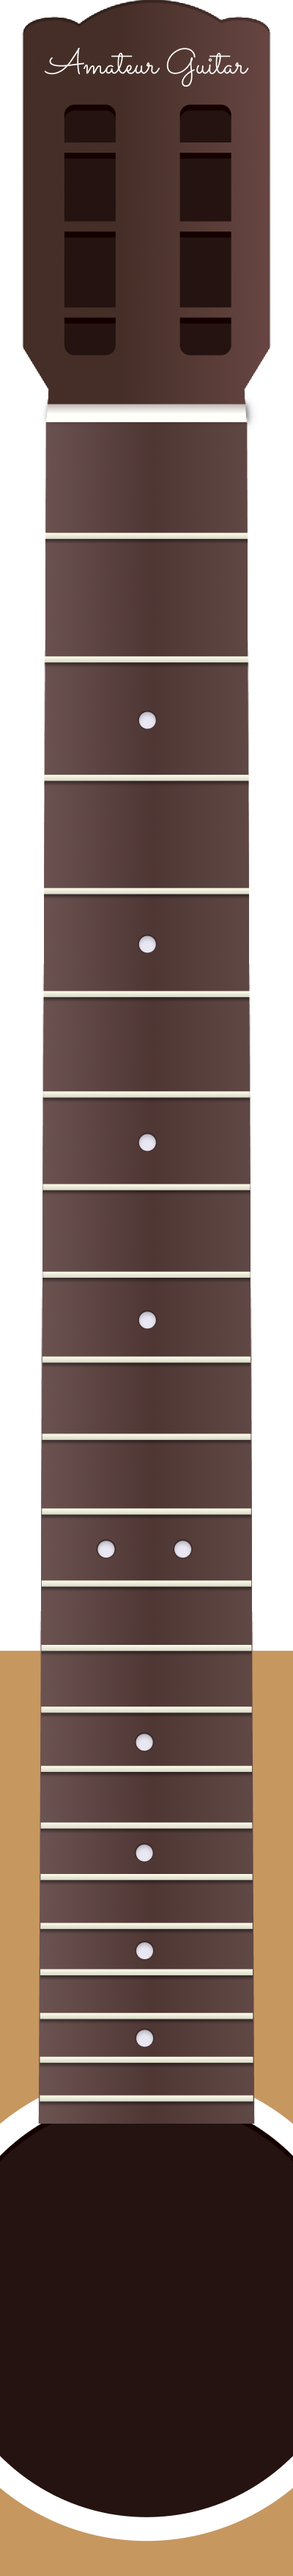
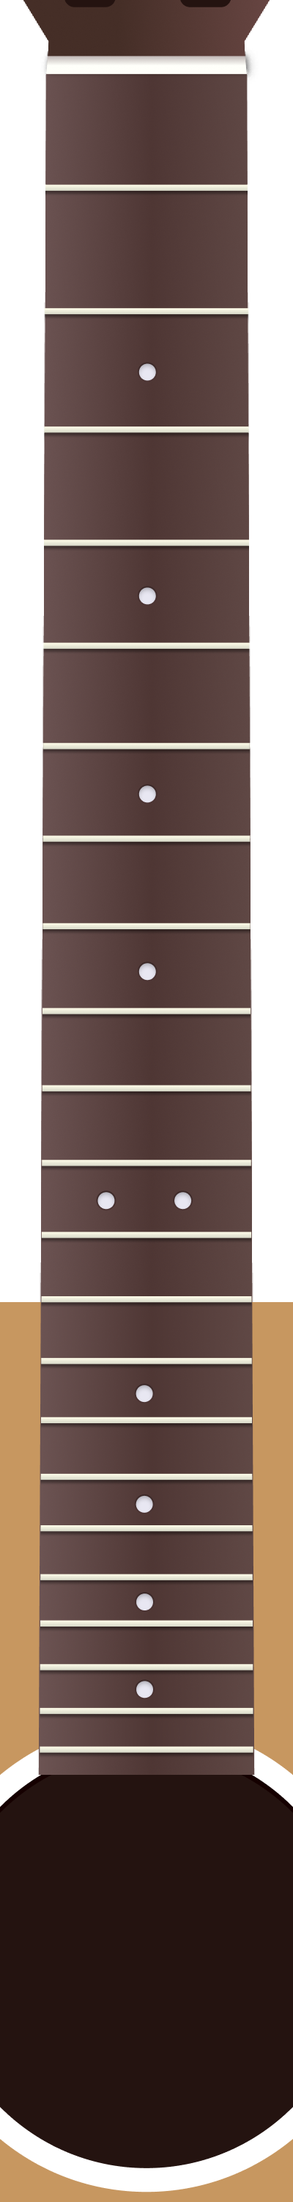
fixes #71, add outline color for chord interval, make it a bit more readable

Changed region(s): [[0.0, 0.0, 1.0, 0.837], [0.0, 0.93, 1.0, 1.0], [0.48, 0.496, 0.54, 0.527]]

diff --git a/crates/notation_bevy/src/guitar/guitar_view.rs b/crates/notation_bevy/src/guitar/guitar_view.rs
@@ -43,7 +43,9 @@ impl<'a> View<NotationLayout<'a>> for GuitarView {
         LayoutSize::new(width, constraint.max.height)
     }
 }
+
 impl GuitarView {
+    pub const CHECKING_FRETS: bool = false;
     pub fn spawn(
         commands: &mut Commands,
         materials: &mut ResMut<Assets<ColorMaterial>>,
@@ -78,30 +80,35 @@ impl GuitarView {
                 GuitarStringData::new(string as u8),
             );
         }
-        for index in 1..=6 {
-            let finger_data = FretFingerData::new_data(
-                ModelEntryProps { index: 0, tied_units: Units(0.0) },
-                Syllable::Do, Interval::Unison,
-                index as u8, None, None);
-            FretFinger::spawn(commands, theme, guitar_entity, finger_data);
-        }
-        /* For checking frets and strings position.
-        let mut string = 1;
-        let mut fret = 0;
-        for _index in 0..=22 {
-            FretFinger::create(
-                commands,
-                theme,
-                guitar_entity,
-                FretFingerData::new(string as u8, Some(fret as u8), None),
-            );
-            string = string + 1;
-            if string > 6 {
-                string = 1;
+        if Self::CHECKING_FRETS {
+            let mut string = 1;
+            let mut fret = 0;
+            for _index in 0..=22 {
+                let finger_data = FretFingerData::new_data(
+                    ModelEntryProps { index: 0, tied_units: Units(0.0) },
+                    Syllable::Do, Interval::Unison,
+                    string as u8, Some(fret as u8), None);
+                FretFinger::spawn(
+                    commands,
+                    theme,
+                    guitar_entity,
+                    finger_data,
+                );
+                string = string + 1;
+                if string > 6 {
+                    string = 1;
+                }
+                fret = fret + 1;
             }
-            fret = fret + 1;
+        } else {
+            for index in 1..=6 {
+                let finger_data = FretFingerData::new_data(
+                    ModelEntryProps { index: 0, tied_units: Units(0.0) },
+                    Syllable::Do, Interval::Unison,
+                    index as u8, None, None);
+                FretFinger::spawn(commands, theme, guitar_entity, finger_data);
+            }
         }
-        */
         guitar_entity
     }
     pub fn on_layout_changed(
@@ -174,6 +181,9 @@ impl GuitarView {
         dot_query: Query<&Children>,
         mut finger_query: Query<(Entity, &mut FretFingerData), With<FretFingerData>>,
     ) {
+        if Self::CHECKING_FRETS {
+            return;
+        }
         let mut current_shape = None;
         for (entry, shape, playing) in query.iter() {
             if playing.value.is_current() {

diff --git a/crates/notation_bevy/src/chord/interval_dot.rs b/crates/notation_bevy/src/chord/interval_dot.rs
@@ -84,16 +84,50 @@ impl<'a> LyonShape<shapes::Circle> for IntervalDot<'a> {
         )
     }
     fn get_shape(&self) -> shapes::Circle {
+        let radius = if self.data.total == 1 {
+            self.data.note_radius * self.theme.sizes.chord.interval_dot_big_radius_factor
+        } else {
+            self.data.note_radius * self.theme.sizes.chord.interval_dot_radius_factor
+        };
         shapes::Circle {
-            radius: self.data.note_radius * self.theme.sizes.chord.interval_dot_radius_factor,
+            radius,
             center: Vec2::ZERO,
         }
     }
     fn get_colors(&self) -> ShapeColors {
-        ShapeColors::new(self.theme.colors.chord.dot.of_quality(&self.data.quality))
+        let color = self.theme.colors.chord.dot.of_quality(&self.data.quality);
+        let outline = self
+            .theme
+            .sizes
+            .chord
+            .interval_dot_outline;
+        if outline > 0.0 {
+            ShapeColors::outlined(
+                color,
+                self.theme
+                    .colors
+                    .chord
+                    .dot_outline
+                    .of_quality(&self.data.quality),
+            )
+        } else {
+            ShapeColors::new(color)
+        }
     }
     fn get_draw_mode(&self) -> DrawMode {
-        DrawMode::Fill(FillOptions::default())
+        let outline = self
+            .theme
+            .sizes
+            .chord
+            .interval_dot_outline;
+        if outline > 0.0 {
+            DrawMode::Outlined {
+                fill_options: FillOptions::default(),
+                outline_options: StrokeOptions::default().with_line_width(outline),
+            }
+        } else {
+            DrawMode::Fill(FillOptions::default())
+        }
     }
     fn get_transform(&self) -> Transform {
         let offset = self.data.offset(self.theme);

diff --git a/crates/notation_bevy/src/theme/guitar_theme.rs b/crates/notation_bevy/src/theme/guitar_theme.rs
@@ -21,21 +21,21 @@ impl Default for GuitarTheme {
     fn default() -> Self {
         Self {
             string_widthes: [1.0, 1.2, 1.4, 2.0, 2.2, 2.4],
-            image_size: (100.0, 877.0),
+            image_size: (100.0, 750.0),
             string_x_factor: 0.115,
-            string_y_factor: 0.337,
+            string_y_factor: 0.467,
             fret_finger_radius: 4.0,
             fret_y_factors: [
                 //0
-                0.347, 0.303, 0.255, 0.209, 0.164,
+                0.475, 0.425, 0.368, 0.315, 0.264,
                 //5
-                0.124, 0.085, 0.049, 0.015, -0.017,
+                0.217, 0.172, 0.129, 0.089, 0.051,
                 //10
-                -0.049, -0.078, -0.107, -0.130, -0.155,
+                0.016, -0.018, -0.051, -0.080, -0.108,
                 //15
-                -0.178, -0.200, -0.220, -0.239, -0.257,
+                -0.135, -0.161, -0.184, -0.206, -0.227,
                 //20
-                -0.274, -0.292, -0.308,
+                -0.248, -0.267, -0.286,
             ],
         }
     }

diff --git a/crates/notation_bevy/src/theme/theme_colors.rs b/crates/notation_bevy/src/theme/theme_colors.rs
@@ -138,6 +138,7 @@ pub struct ChordColors {
     pub background: Color,
     pub diagram_outline: PlayingColors,
     pub dot: IntervalColors,
+    pub dot_outline: IntervalColors,
 }
 impl Default for ChordColors {
     fn default() -> Self {
@@ -145,7 +146,14 @@ impl Default for ChordColors {
             background: color_of_hex("FFF9F2CC"),
             diagram_outline: PlayingColors::default(),
             dot: IntervalColors::default(),
-        }
+            dot_outline: IntervalColors {
+                perfect: color_of_hex("000000"),
+                major: color_of_hex("000000"),
+                minor: color_of_hex("FFFFFF"),
+                augmented: color_of_hex("FF00FF"),
+                diminishd: color_of_hex("FFFFFF"),
+                tritone: color_of_hex("FF00FF"),}
+            }
     }
 }
 

diff --git a/crates/notation_bevy/src/theme/theme_sizes.rs b/crates/notation_bevy/src/theme/theme_sizes.rs
@@ -67,6 +67,8 @@ pub struct ChordSizes {
     pub diagram_base_factor: f32,
     pub diagram_base_y_factor: f32,
     pub interval_dot_radius_factor: f32,
+    pub interval_dot_big_radius_factor: f32,
+    pub interval_dot_outline: f32,
     pub interval_dot_offset_2_factor: f32,
     pub interval_dot_offset_3_4_factor: f32,
     pub interval_dot_offset_5_7_factor: f32,
@@ -83,6 +85,8 @@ impl Default for ChordSizes {
             diagram_base_factor: 0.25,
             diagram_base_y_factor: 3.4,
             interval_dot_radius_factor: 0.22,
+            interval_dot_big_radius_factor: 0.40,
+            interval_dot_outline: 0.5,
             interval_dot_offset_2_factor: 0.3,
             interval_dot_offset_3_4_factor: 0.4,
             interval_dot_offset_5_7_factor: 0.6,
